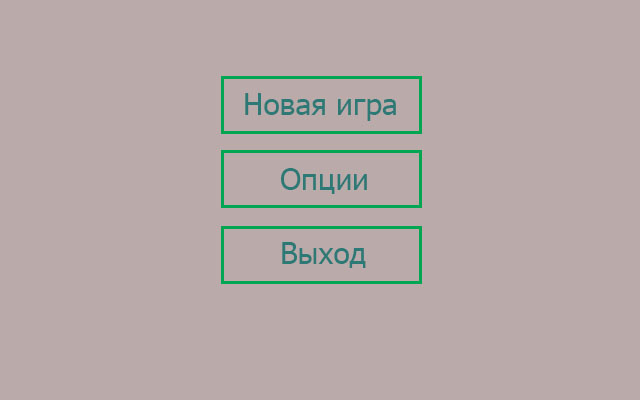
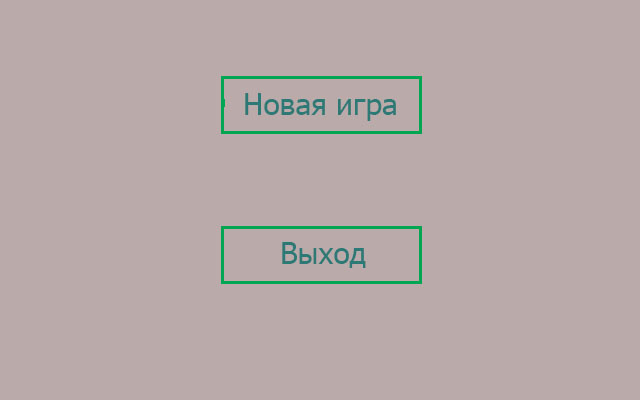
Comments, cleaning the code
Useful comments for all functions, deleting useless code, editing menu,
some goodies (fixed bounces, different colors for winning and losing
windows, etc)

Changed region(s): [[0.3438, 0.36, 0.6562, 0.54], [0.4375, 0.42, 0.5938, 0.48]]

diff --git a/Arkanoid.py b/Arkanoid.py
@@ -5,22 +5,20 @@ from pygame.locals import *
 class Circle(pygame.sprite.Sprite):
 
     def __init__(self, x = 200, y = 100, r = 10,vx = 0, vy = 170, colour = (255,255,255)):
-        """Constructor of Player class"""
-        """self.a - acceleration"""
-        """self.r - radius"""
+        """Constructor of ball class"""
         pygame.sprite.Sprite.__init__(self)
         self.x, self.y, self.r, self.vx, self.vy, self.colour = \
                 x, y, r, vx, vy, colour
         square_1_color = (255,255,255)
 
     def render(self, game):
-        """Draw Player on the Game window"""
+        """Draw ball on the Game window"""
         pygame.draw.circle(game.screen,
                 self.colour,
                 (int(self.x), int(self.y)), self.r)
 
     def update(self, game):
-        """Constant speed of the ball"""
+        """Moving of ball"""
         self.rect = pygame.Rect(self.x - self.r, self.y - self.r, 2 * self.r, 2 * self.r)
         self.x += self.vx * game.delta
         self.y += self.vy * game.delta
@@ -43,32 +41,34 @@ class Circle(pygame.sprite.Sprite):
                 self.vy = -self.vy
             self.y = game.height - self.r
 
-        """Bouncing ball"""
+        """Bouncing conditions for ball"""
         if pygame.sprite.collide_rect(self, game.main_platform):
             self.y -= 7
             self.vy = -self.vy
             self.vx += game.main_platform.vx
 
+        """Displacement of ball from striking with platform"""
         for z in game.platforms:
             if pygame.sprite.collide_rect(self, game.platforms[z]):
                 self.y += 7
                 self.vy = -self.vy
                 game.to_remove.add(z)
-        flag = 1
            
 class Platform(pygame.sprite.Sprite):
-    def __init__(self, x = 25, y = 10, a = 70, b = 10, vx = 50, colour = (255,0,255)):
+
+    def __init__(self, x = 25, y = 10, a = 50, b = 10, vx = 150, colour = (255,0,255)):
+        """Constructor of striking objects class"""
         pygame.sprite.Sprite.__init__(self)
         self.x, self.y, self.a, self.b, self.vx, self.colour = \
             x, y, a, b, vx, colour
         self.rect = pygame.Rect(self.x, self.y, self.a, self.b)
-        rect_1_color = (255,0,255)
-        rect_1_width = 0
-
+        
     def update(self, game):
+        """Moving of platform"""
         self.rect = pygame.Rect(self.x, self.y, self.a, self.b)
         self.x += self.vx * game.delta
 
+        """Bouncing from other platforms"""
         if self.x < 0:
             if self.vx < 0:
                 self.vx = -self.vx
@@ -76,36 +76,35 @@ class Platform(pygame.sprite.Sprite):
             if self.vx > 0:
                 self.vx = - self.vx
                 
-        pl = game.platforms #для удобства
-        for z in pl:
-            if self != pl[z] and pygame.sprite.collide_rect(self, pl[z]):
-                self.x -= self.vx / 7
+        """Displacement of platform from striking"""
+        for z in game.platforms:
+            if self != game.platforms[z] and pygame.sprite.collide_rect(self, game.platforms[z]):
+                self.x -= self.vx / 10
                 self.vx = -self.vx
 
     def render(self, game):
-        """Draw Player on the Game window"""
+        """Draw platforms on the Game window"""
         pygame.draw.rect(game.screen,
                 self.colour,
                 (int(self.x), int(self.y), self.a, self.b))         
 
-        """Do not let Player get out of the Game window"""
+        """Do not let platforms get out of the Game window"""
         if self.x < 0:
             self.x = 0
         if self.x > game.width - self.a:
             self.x = game.width - self.a
 
 class Platform_main(pygame.sprite.Sprite):
+
     def __init__(self, x = 270, y = 370, a = 100, b = 10, colour = (255,255,0), vx = 0):
+        """Constructor of player class"""
         pygame.sprite.Sprite.__init__(self)
         self.x, self.y, self.a, self.b, self.colour, self.vx = \
             x, y, a, b, colour, vx
         self.rect = pygame.Rect(self.x, self.y, self.a, self.b)
-        rect_1_color = (255,255,0)
-        rect_1_width = 0
-
 
     def render(self, game):
-        """Draw Player on the Game window"""
+        """Draw Player platform on the Game window"""
         pygame.draw.rect(game.screen,
                 self.colour,
                 (int(self.x), int(self.y), self.a, self.b))
@@ -128,6 +127,7 @@ class Platform_main(pygame.sprite.Sprite):
             self.x = game.width - self.a
         
 class Game:
+
     def tick(self):
         """Return time in seconds since previous call
         and limit speed of the game to 50 fps"""
@@ -143,40 +143,48 @@ class Game:
         self.tool = 'run'
         self.player = Circle()
 
+        """Finite-state maschine"""
         self.states = {'Game' : 0, 'Win' : 1, 'Lose' : 2}
         self.state = self.states['Game']
 
+        """Dictionary"""
         self.main_platform = Platform_main()
         self.platforms = {
             0: Platform(),
             2: Platform(x = 145, y = 10),
-            3: Platform(x = 265, y = 10),
-            4: Platform(x = 385, y = 10),
-            5: Platform(x = 505, y = 10)
+            3: Platform(x = 285, y = 10),
+            4: Platform(x = 410, y = 10),
+            5: Platform(x = 520, y = 10),
+            6: Platform(x = 100, y = 100),
+            7: Platform(x = 230, y = 100),
+            8: Platform(x = 350, y = 100),
+            9: Platform(x = 490, y = 100),
         }
         self.to_remove = set()
         
         """Losing window"""
     def draw_lose_screen(self):
-        cyan = (0, 255, 255)
+        red = (255, 0, 0)
         black = (0, 0, 0)
         pygame.font.init()
-        self.screen.fill(cyan)
+        self.screen.fill(red)
 
-        font = pygame.font.Font(None, 50)
+        font = pygame.font.Font(None, 70)
         text = font.render('You lose!', True, black)
         self.screen.blit(text, (200, 200))
 
+        """Winning window"""
     def draw_win_screen(self):
-        cyan = (0, 255, 255)
+        blue = (0, 255, 255)
         black = (0, 0, 0)
         pygame.font.init()
-        self.screen.fill(cyan)
+        self.screen.fill(blue)
 
-        font = pygame.font.Font(None, 50)
+        font = pygame.font.Font(None, 70)
         text = font.render('You win!', True, black)
         self.screen.blit(text, (200, 200))
 
+        """Conditions of game ending"""
     def update_state(self):
         if not self.platforms:
             self.state = self.states['Win']
@@ -198,6 +206,7 @@ class Game:
         self.tick()
         self.pressed = pygame.key.get_pressed()
 
+        """Do deleting platforms"""
         self.player.update(self)
         self.main_platform.update(self)
         for i in self.platforms:

diff --git a/Menu.py b/Menu.py
@@ -10,7 +10,7 @@ class Menu:
         self.delta = self.clock.tick(60) / 1000.0
 
     def __init__(self):
-        """Constructor of the Game"""
+        """Constructor of the menu window"""
         self._running = True
         self.size = self.width, self.height = 640, 400
         self.screen = pygame.display.set_mode(self.size, pygame.HWSURFACE)
@@ -25,19 +25,18 @@ class Menu:
             self.exit()
 
     def move(self):
-        """Here game objects update their positions"""
+        """Processing of mouse clicking"""
         self.tick()
         self.pressed = pygame.key.get_pressed()
         x = mouse.get_pos()[0]
         y = mouse.get_pos()[1]
         
+        """Analyzing cursor position"""
         if pygame.mouse.get_pressed() == (1, 0, 0):
             if x > 220 and x < 420 and \
                y > 80 and y < 130:
                 game = Arkanoid.Game()
                 game.execute()
-           # if x > 220 and x < 420 and \
-               #y > 150 and y < 210:
             if x > 220 and x < 420 and \
                y > 230 and y < 280:
                 menu.exit()
